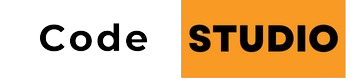
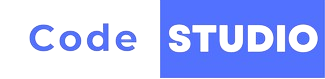
updated color palette

diff --git a/src/App.js b/src/App.js
@@ -14,26 +14,26 @@ function App() {
           toastOptions={{
             success:{
               style: {
-                border: '1px solid #713200',
+                border: '1px solid #5271FF',
                 padding: '16px',
-                color: '#222',
-                background: '#F89A24'
+                color: '#fff',
+                background: '#5271FF'
               },
               iconTheme: {
                 primary: '#fff',
-                secondary: '#F89A24',
+                secondary: '#5271FF',
               },
             },
             error:{
               style: {
-                border: '1px solid #713200',
+                border: '1px solid #5271FF',
                 padding: '16px',
-                color: '#222',
-                background: '#F89A24'
+                color: '#fff',
+                background: '#5271FF'
               },
               iconTheme: {
                 primary: '#fff',
-                secondary: '#F89A24',
+                secondary: '#5271FF',
               },
             },
           }}

diff --git a/src/App.css b/src/App.css
@@ -7,7 +7,7 @@
 }
 
 .formWrapper{
-  background: #2d2d2d;
+  background: #2e3249;
   padding: 60px;
   border-radius: 15px;
   width: 500px;
@@ -51,14 +51,14 @@
 }
 
 .joinBtn, .leaveBtn{
-  background: #F89A24;
+  background: #5271FF;
   width: 100px;
   margin-left: auto;
   font-weight: bold;
 }
 
 .joinBtn:hover, .leaveBtn:hover{
-  background: #E47F00;
+  background: #052CDB;
 }
 
 .createInfo{
@@ -68,15 +68,15 @@
 }
 
 .createNewBtn{
-  color: #F89A24;
+  color: #5271FF;
   text-decoration: none;
-  border-bottom: 1px solid #F89A24;
+  border-bottom: 1px solid #5271FF;
   transition: all 0.3s ease-in-out;
 }
 
 .createNewBtn:hover{
-  color: #E47F00;
-  border-color: #E47F00;
+  color: #052CDB;
+  border-color: #052CDB;
 }
 
 .mainWrap {
@@ -87,7 +87,7 @@
 
 .aside {
   width: 300px;
-  background: #2d2d2d;
+  background: #2e3249;
   padding: 16px;
   color: #fff;
   display: flex;

diff --git a/src/index.css b/src/index.css
@@ -5,7 +5,7 @@ body {
     sans-serif;
   -webkit-font-smoothing: antialiased;
   -moz-osx-font-smoothing: grayscale;
-  background: #222222;
+  background: #282A36;
 }
 
 
